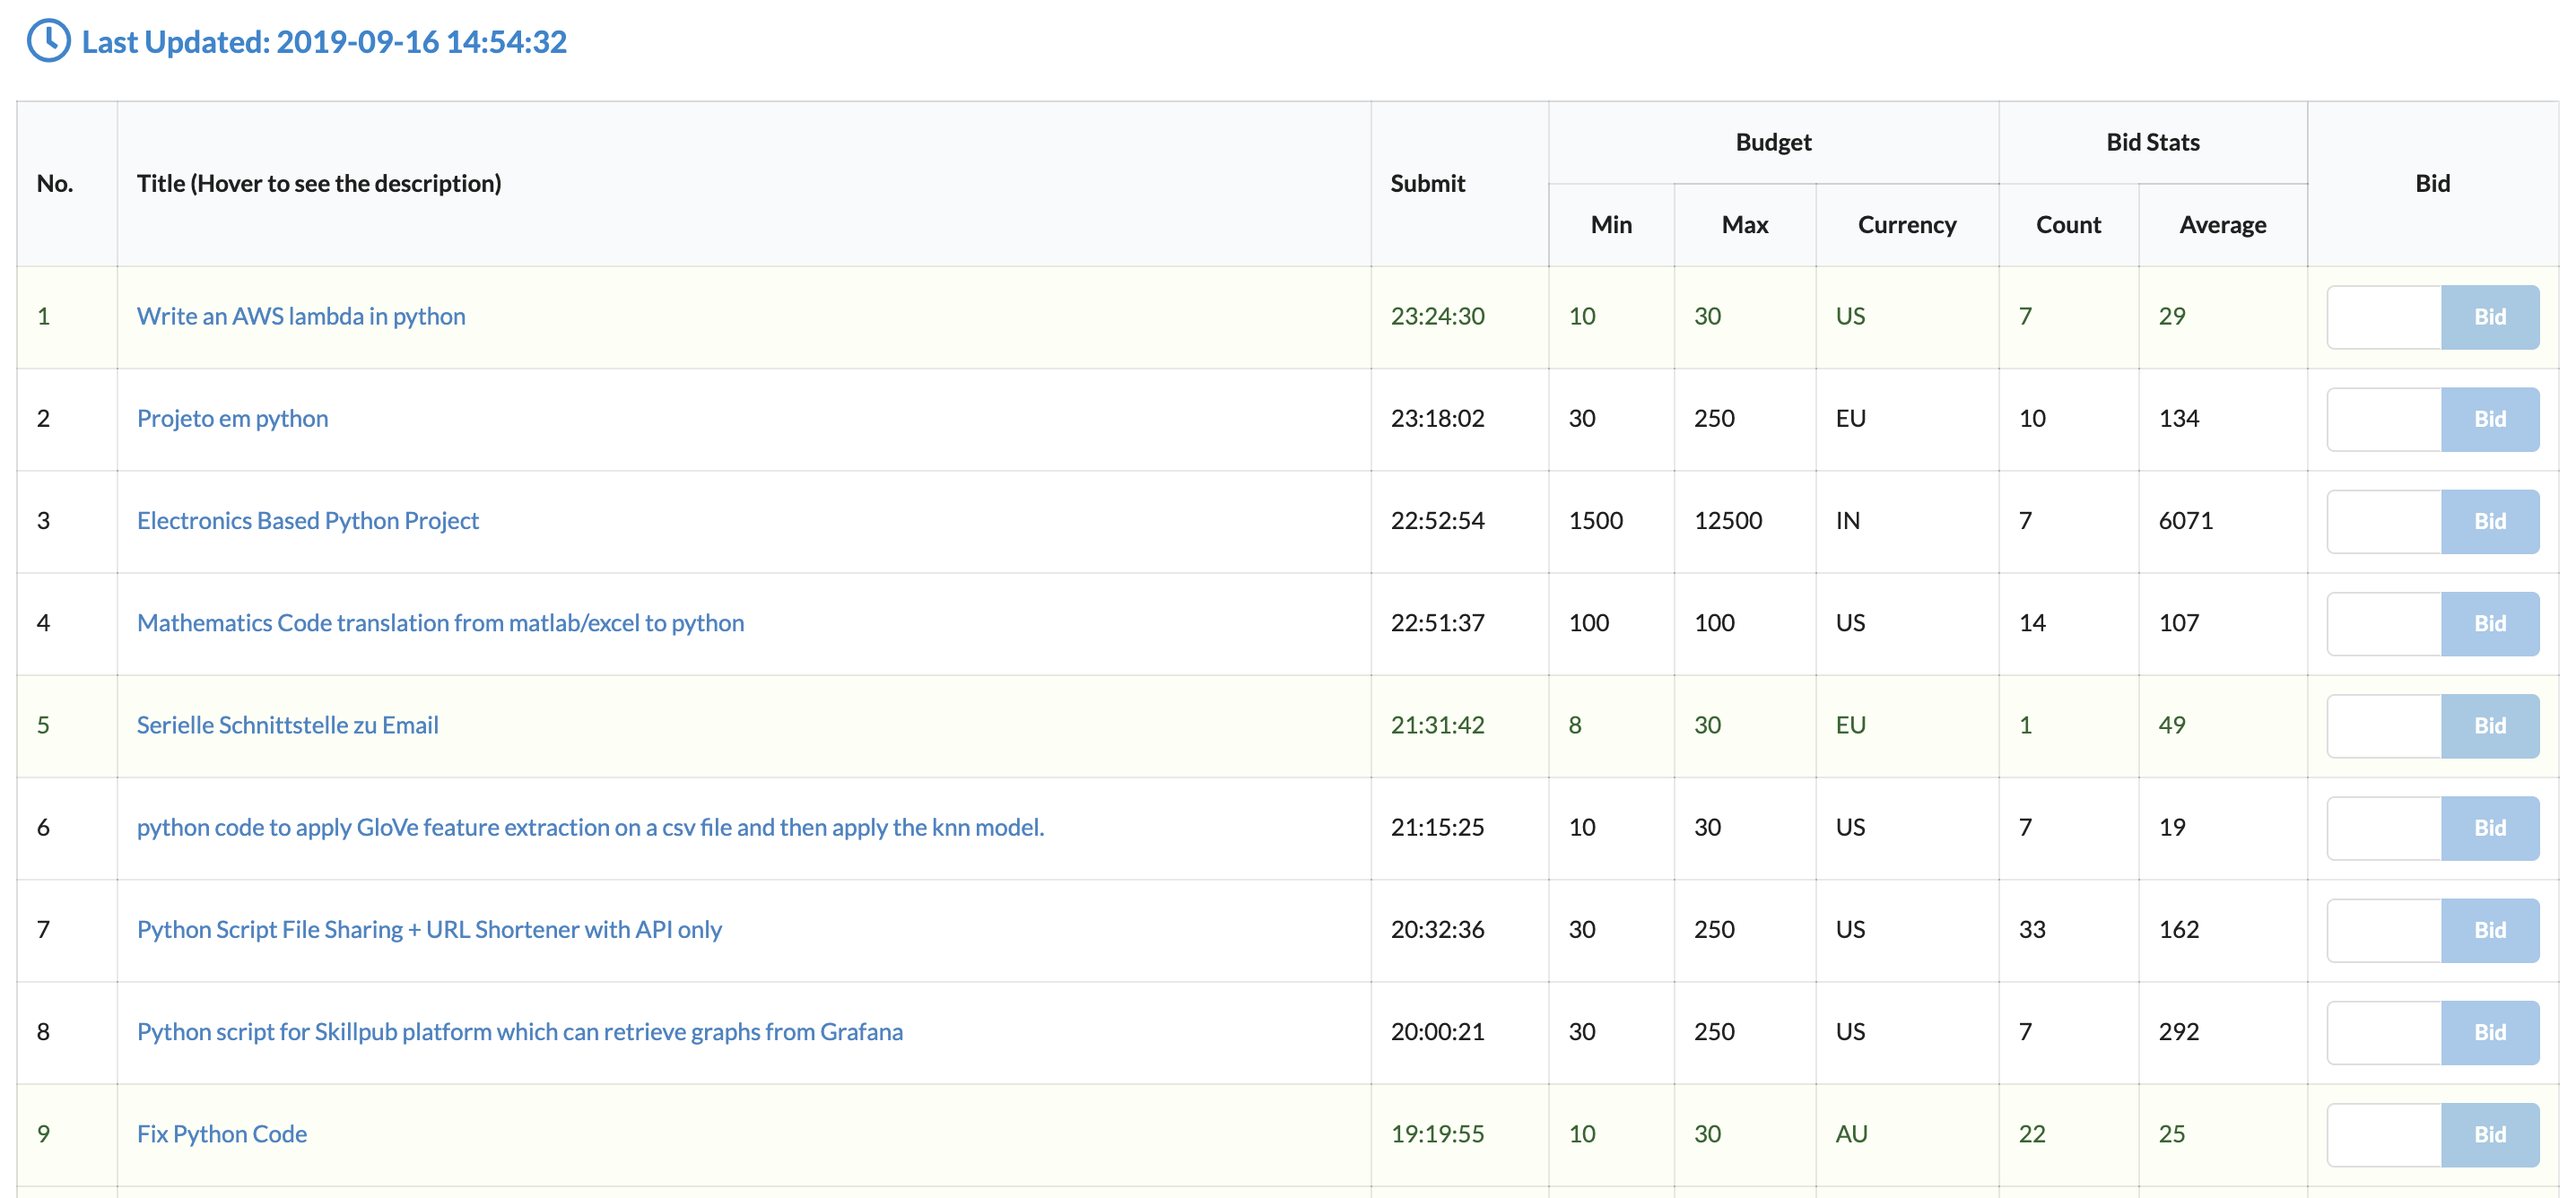
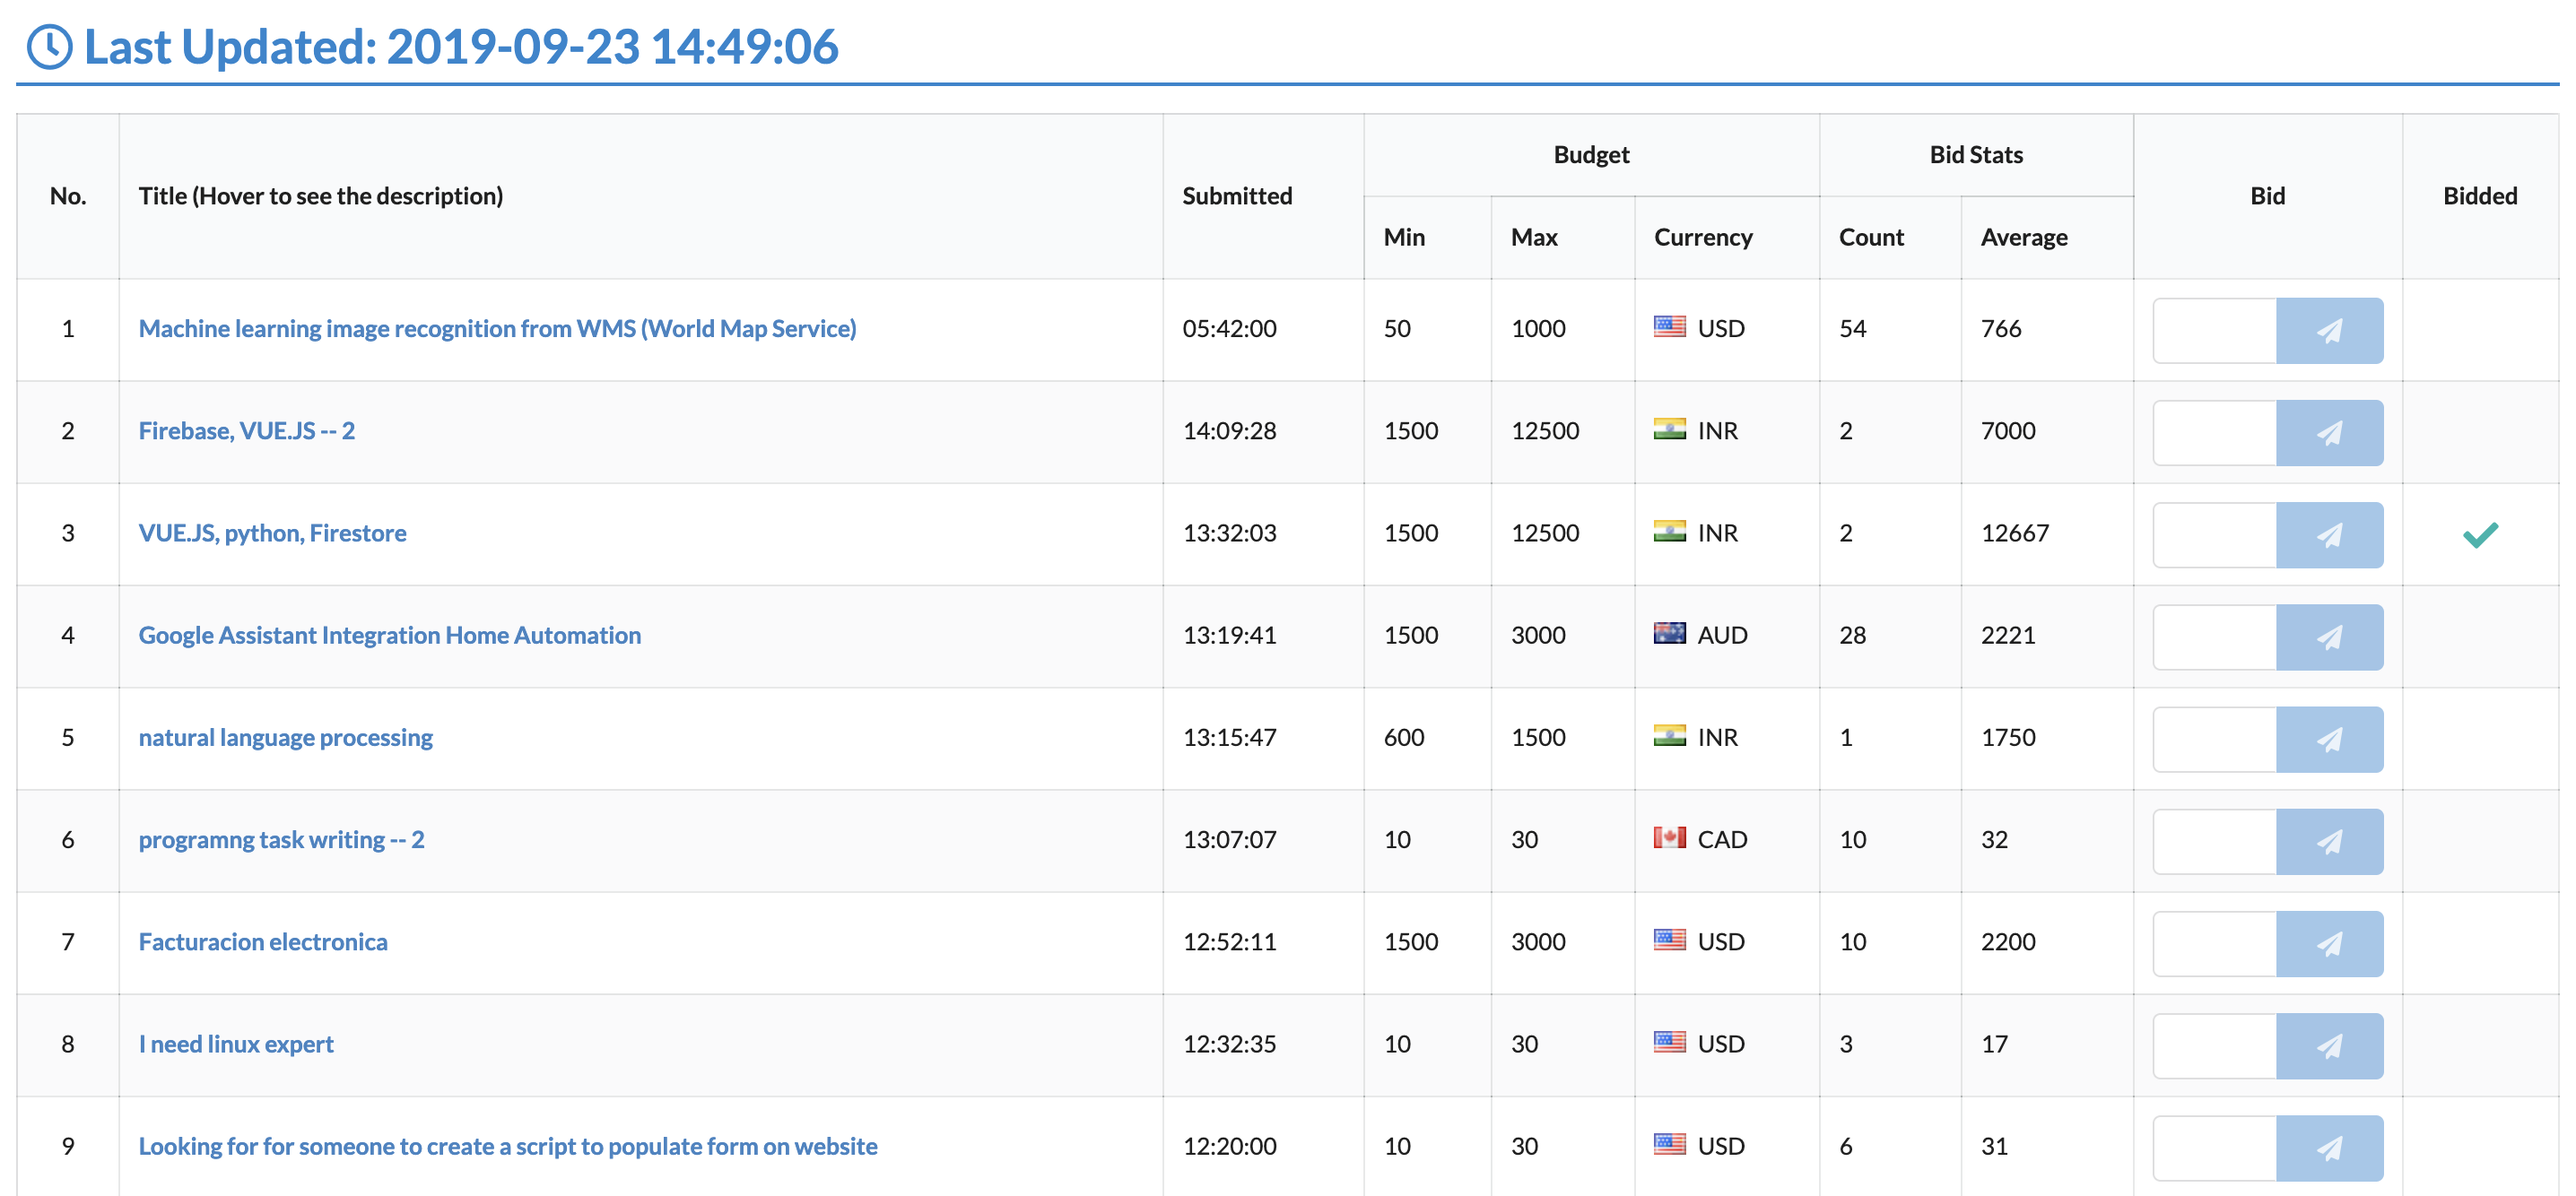
update

diff --git a/src/App.js b/src/App.js
@@ -1,27 +1,38 @@
 import React, { useState, useEffect } from 'react';
-import { Button, Container, Header, Icon, Input, Popup, Table } from 'semantic-ui-react';
+import {
+	Button,
+	Card,
+	Container,
+	Flag,
+	Header,
+	Icon,
+	Input,
+	Popup,
+	Table,
+	Transition,
+} from 'semantic-ui-react';
 import 'semantic-ui-css/semantic.min.css';
 import config from './config';
 import api from './api';
 
 const getValue = (obj, key) => {
 	const attrs = key.split('.');
-	return attrs.reduce((o, k) => (Array.isArray(o) ? o.map((x) => x[k]) : o[k]), obj);
+	return attrs.reduce((o, k) => (Array.isArray(o) ? o.map(x => x[k]) : o[k]), obj);
 };
 
-const utcToDatetime = (utc) => {
+const utcToDatetime = utc => {
 	const date = new Date(null);
-	const offset = date.getTimezoneOffset();
-	date.setSeconds(utc - offset * 60);
+	date.setSeconds(utc - date.getTimezoneOffset() * 60);
 	return date.toISOString().substr(11, 8);
 };
 
 const getNow = () => {
 	const date = new Date();
+	date.setSeconds(date.getSeconds() - date.getTimezoneOffset() * 60);
 	return date.toISOString().substr(0, 19).replace('T', ' ');
 };
 
-const isNumeric = (n) => {
+const isNumeric = n => {
 	return !isNaN(parseFloat(n)) && isFinite(n);
 };
 
@@ -32,12 +43,21 @@ export default () => {
 
 	useEffect(() => {
 		const fetchData = async () => {
+			setUpdatedAt(''); // make it blank to trigger transition
+			setUpdatedAt(getNow());
+
+			const skills = await api.get('/projects/0.1/jobs/', {
+				params: {
+					job_names: config.skills,
+				},
+			});
+			const skillIds = skills.data.result.map(({ id }) => id);
+
 			const resp = await api.get('/projects/0.1/projects/active/', {
 				params: {
-					query: config.query,
 					limit: config.limit,
 					project_types: config.projectTypes,
-					bidders: [ config.userId ],
+					jobs: skillIds,
 					full_description: true,
 					job_details: true,
 					compact: false,
@@ -45,16 +65,17 @@ export default () => {
 			});
 
 			const { projects } = resp.data.result;
-			const ids = projects.map(({ id }) => id);
+			const projectIds = projects.map(({ id }) => id);
 
 			// find bidded projects
 			const bids = await api.get('/projects/0.1/bids/', {
 				params: {
-					projects: ids,
+					projects: projectIds,
 					bidders: [ config.userId ],
 				},
 			});
-			const biddedIds = bids.data.result.bids.map((bid) => bid.project_id);
+
+			const biddedIds = bids.data.result.bids.map(bid => bid.project_id);
 
 			const keys = [
 				'id',
@@ -63,7 +84,7 @@ export default () => {
 				'seo_url',
 				'description',
 				'preview_description',
-				'jobs.category.name',
+				'jobs.name',
 				'currency.code',
 				'currency.country',
 				'budget.minimum',
@@ -73,14 +94,19 @@ export default () => {
 				'submitdate',
 			];
 
-			setProjects(
-				projects.map((prj) =>
-					keys.reduce((o, k) => ({ [k]: getValue(prj, k), ...o }), {
+			setProjects(prevState => {
+				// make a notify sound when new projects are found
+				if (prevState.filter(({ id }) => !projectIds.includes(id)).length > 0) {
+					const audio = new Audio('notify.mp3');
+					audio.play();
+				}
+
+				return projects.map(prj =>
+					keys.reduce((obj, k) => ({ [k]: getValue(prj, k), ...obj }), {
 						bidded: biddedIds.includes(prj.id),
 					})
-				)
-			);
-			setUpdatedAt(getNow());
+				);
+			});
 		};
 		fetchData();
 		setInterval(fetchData, config.interval);
@@ -107,17 +133,23 @@ export default () => {
 
 	return (
 		<Container style={{ padding: 10, width: '100%', fontSize: 12 }}>
-			<Header color="blue">
-				<Icon name="clock outline" style={{ margin: 3 }} />Last Updated: {updatedAt}
+			<Header dividing as="h2" color="blue">
+				<Transition visible={!!updatedAt} animation="fade" duration={1000}>
+					<div>
+						<Icon name="clock outline" style={{ margin: 3 }} />Last Updated: {updatedAt}
+					</div>
+				</Transition>
 			</Header>
-			<Table celled structured>
+			<Table celled striped structured>
 				<Table.Header>
 					<Table.Row>
-						<Table.HeaderCell rowSpan="2">No.</Table.HeaderCell>
+						<Table.HeaderCell rowSpan="2" textAlign="center">
+							No.
+						</Table.HeaderCell>
 						<Table.HeaderCell rowSpan="2">
 							Title (Hover to see the description)
 						</Table.HeaderCell>
-						<Table.HeaderCell rowSpan="2">Submit</Table.HeaderCell>
+						<Table.HeaderCell rowSpan="2">Submitted</Table.HeaderCell>
 						<Table.HeaderCell colSpan="3" textAlign="center">
 							Budget
 						</Table.HeaderCell>
@@ -127,40 +159,64 @@ export default () => {
 						<Table.HeaderCell rowSpan="2" textAlign="center">
 							Bid
 						</Table.HeaderCell>
+						<Table.HeaderCell rowSpan="2" textAlign="center">
+							Bidded
+						</Table.HeaderCell>
 					</Table.Row>
 					<Table.Row>
-						<Table.HeaderCell textAlign="center">Min</Table.HeaderCell>
-						<Table.HeaderCell textAlign="center">Max</Table.HeaderCell>
-						<Table.HeaderCell textAlign="center">Currency</Table.HeaderCell>
-						<Table.HeaderCell textAlign="center">Count</Table.HeaderCell>
-						<Table.HeaderCell textAlign="center">Average</Table.HeaderCell>
+						<Table.HeaderCell>Min</Table.HeaderCell>
+						<Table.HeaderCell>Max</Table.HeaderCell>
+						<Table.HeaderCell>Currency</Table.HeaderCell>
+						<Table.HeaderCell>Count</Table.HeaderCell>
+						<Table.HeaderCell>Average</Table.HeaderCell>
 					</Table.Row>
 				</Table.Header>
 
 				<Table.Body>
 					{projects.map((project, idx) => (
-						<Table.Row key={project.id} positive={!!project.bidded}>
-							<Table.Cell>{idx + 1}</Table.Cell>
+						<Table.Row key={project.id}>
+							<Table.Cell textAlign="center">{idx + 1}</Table.Cell>
 							<Table.Cell>
 								<Popup
 									trigger={
 										<a
 											href={`https://www.freelancer.com/projects/${project.seo_url}`}
 											rel="noopener noreferrer"
+											style={{ fontWeight: 'bold' }}
 											target="_blank"
 										>
 											{project.title}
 										</a>
 									}
-									content={project.description}
+									content={
+										<Card fluid>
+											<Card.Content>
+												<Card.Header as={Header} dividing>
+													Details
+												</Card.Header>
+												<Card.Description>
+													{project.description}
+												</Card.Description>
+												<Card.Header as={Header} dividing>
+													Skills Required
+												</Card.Header>
+												<Card.Description>
+													{project['jobs.name'].join(', ')}
+												</Card.Description>
+											</Card.Content>
+										</Card>
+									}
 									wide="very"
-									position="right center"
+									// position="right center"
 								/>
 							</Table.Cell>
 							<Table.Cell>{utcToDatetime(project.submitdate)}</Table.Cell>
 							<Table.Cell>{project['budget.minimum']}</Table.Cell>
 							<Table.Cell>{project['budget.maximum']}</Table.Cell>
-							<Table.Cell>{project['currency.country']}</Table.Cell>
+							<Table.Cell>
+								<Flag name={`${project['currency.country'].toLowerCase()}`} />
+								{project['currency.code']}
+							</Table.Cell>
 							<Table.Cell>{project['bid_stats.bid_count']}</Table.Cell>
 							<Table.Cell>{Math.round(project['bid_stats.bid_avg'])}</Table.Cell>
 							<Table.Cell>
@@ -169,7 +225,7 @@ export default () => {
 									action={
 										<Button
 											primary
-											size="mini"
+											size="small"
 											onClick={() =>
 												bidOnProject(project.id, bidAmounts[project.id])}
 											disabled={
@@ -179,12 +235,22 @@ export default () => {
 												)
 											}
 										>
-											Bid
+											<Icon name="paper plane" style={{ margin: 0 }} />
 										</Button>
 									}
 									value={project.id in bidAmounts ? bidAmounts[project.id] : ''}
-									onChange={(event) => onBidAmountChange(event, project.id)}
+									onChange={event => onBidAmountChange(event, project.id)}
 								/>
+							</Table.Cell>
+							<Table.Cell textAlign="center">
+								{project.bidded && (
+									<Icon
+										name="check"
+										size="large"
+										color="teal"
+										style={{ margin: 0 }}
+									/>
+								)}
 							</Table.Cell>
 						</Table.Row>
 					))}

diff --git a/public/index.html b/public/index.html
@@ -8,7 +8,7 @@
       name="description"
       content="Web site created using create-react-app"
     />
-    <title>React App</title>
+    <title>FL Monitor</title>
   </head>
   <body>
     <noscript>You need to enable JavaScript to run this app.</noscript>

diff --git a/README.md b/README.md
@@ -8,3 +8,6 @@ A simple dashboard app to monitor projects on freelancer.com
 ## Setup
 1. Rename `config.example.js` to `config.js` and fill out the required parameters.
 1. Run `npm start`
+
+## Freelancer API Document
+https://developers.freelancer.com/docs
